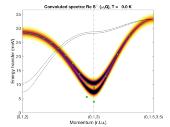
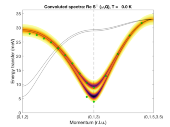
fixed tutorial35

diff --git a/tutorials/publish/tutorial35/tutorial35.html b/tutorials/publish/tutorial35/tutorial35.html
@@ -126,16 +126,18 @@ par_fit.func     = @(obj,p)matparser(obj,<span class="string">'param'</span>,p,<
 
 par_fit.xmin      = [ 3   1  0   0    ];
 par_fit.xmax      = [ 9  10  1   1    ];
-par_fit.x0        = [ 6   4  0.1 0.04 ];
+<span class="comment">%par_fit.x0        = [ 6   4  0.1 0.04 ];</span>
 par_fit.plot      = true;
 par_fit.hermit    = false;
 par_fit.optimizer = <span class="string">'pso'</span>;
 par_fit.maxiter   = 10;
 par_fit.optmem    = 1;
-par_fit.nrun      = 3;
+par_fit.nrun      = 5;
 
 fitStr = luvo.fitspec(par_fit);
 </pre><pre class="codeoutput">Warning: Convergence is not reached! 
+Warning: Convergence is not reached! 
+Warning: Convergence is not reached! 
 Warning: Convergence is not reached! 
 Warning: Convergence is not reached! 
 </pre><img vspace="5" hspace="5" src="tutorial35_04.png" style="width:560px;height:420px;" alt=""> <h2 id="7">Check the calculated spin wave spectrum</h2><p>After fitting, the best result is stored in the spinw object. The data includes 2 straight lines in reciprocal space: (0,1,L) and (0,1+K,3+K). We tile the two scans together onto the same plot using a bit of Matlab coding.</p><pre class="codeinput">Q1 = [0 1.0 2.0];
@@ -264,13 +266,13 @@ par_fit.func     = @(obj,p)matparser(obj,'param',p,...
 
 par_fit.xmin      = [ 3   1  0   0    ];
 par_fit.xmax      = [ 9  10  1   1    ];
-par_fit.x0        = [ 6   4  0.1 0.04 ];
+%par_fit.x0        = [ 6   4  0.1 0.04 ];
 par_fit.plot      = true;
 par_fit.hermit    = false;
 par_fit.optimizer = 'pso';
 par_fit.maxiter   = 10;
 par_fit.optmem    = 1;
-par_fit.nrun      = 3;
+par_fit.nrun      = 5;
 
 fitStr = luvo.fitspec(par_fit);
 
